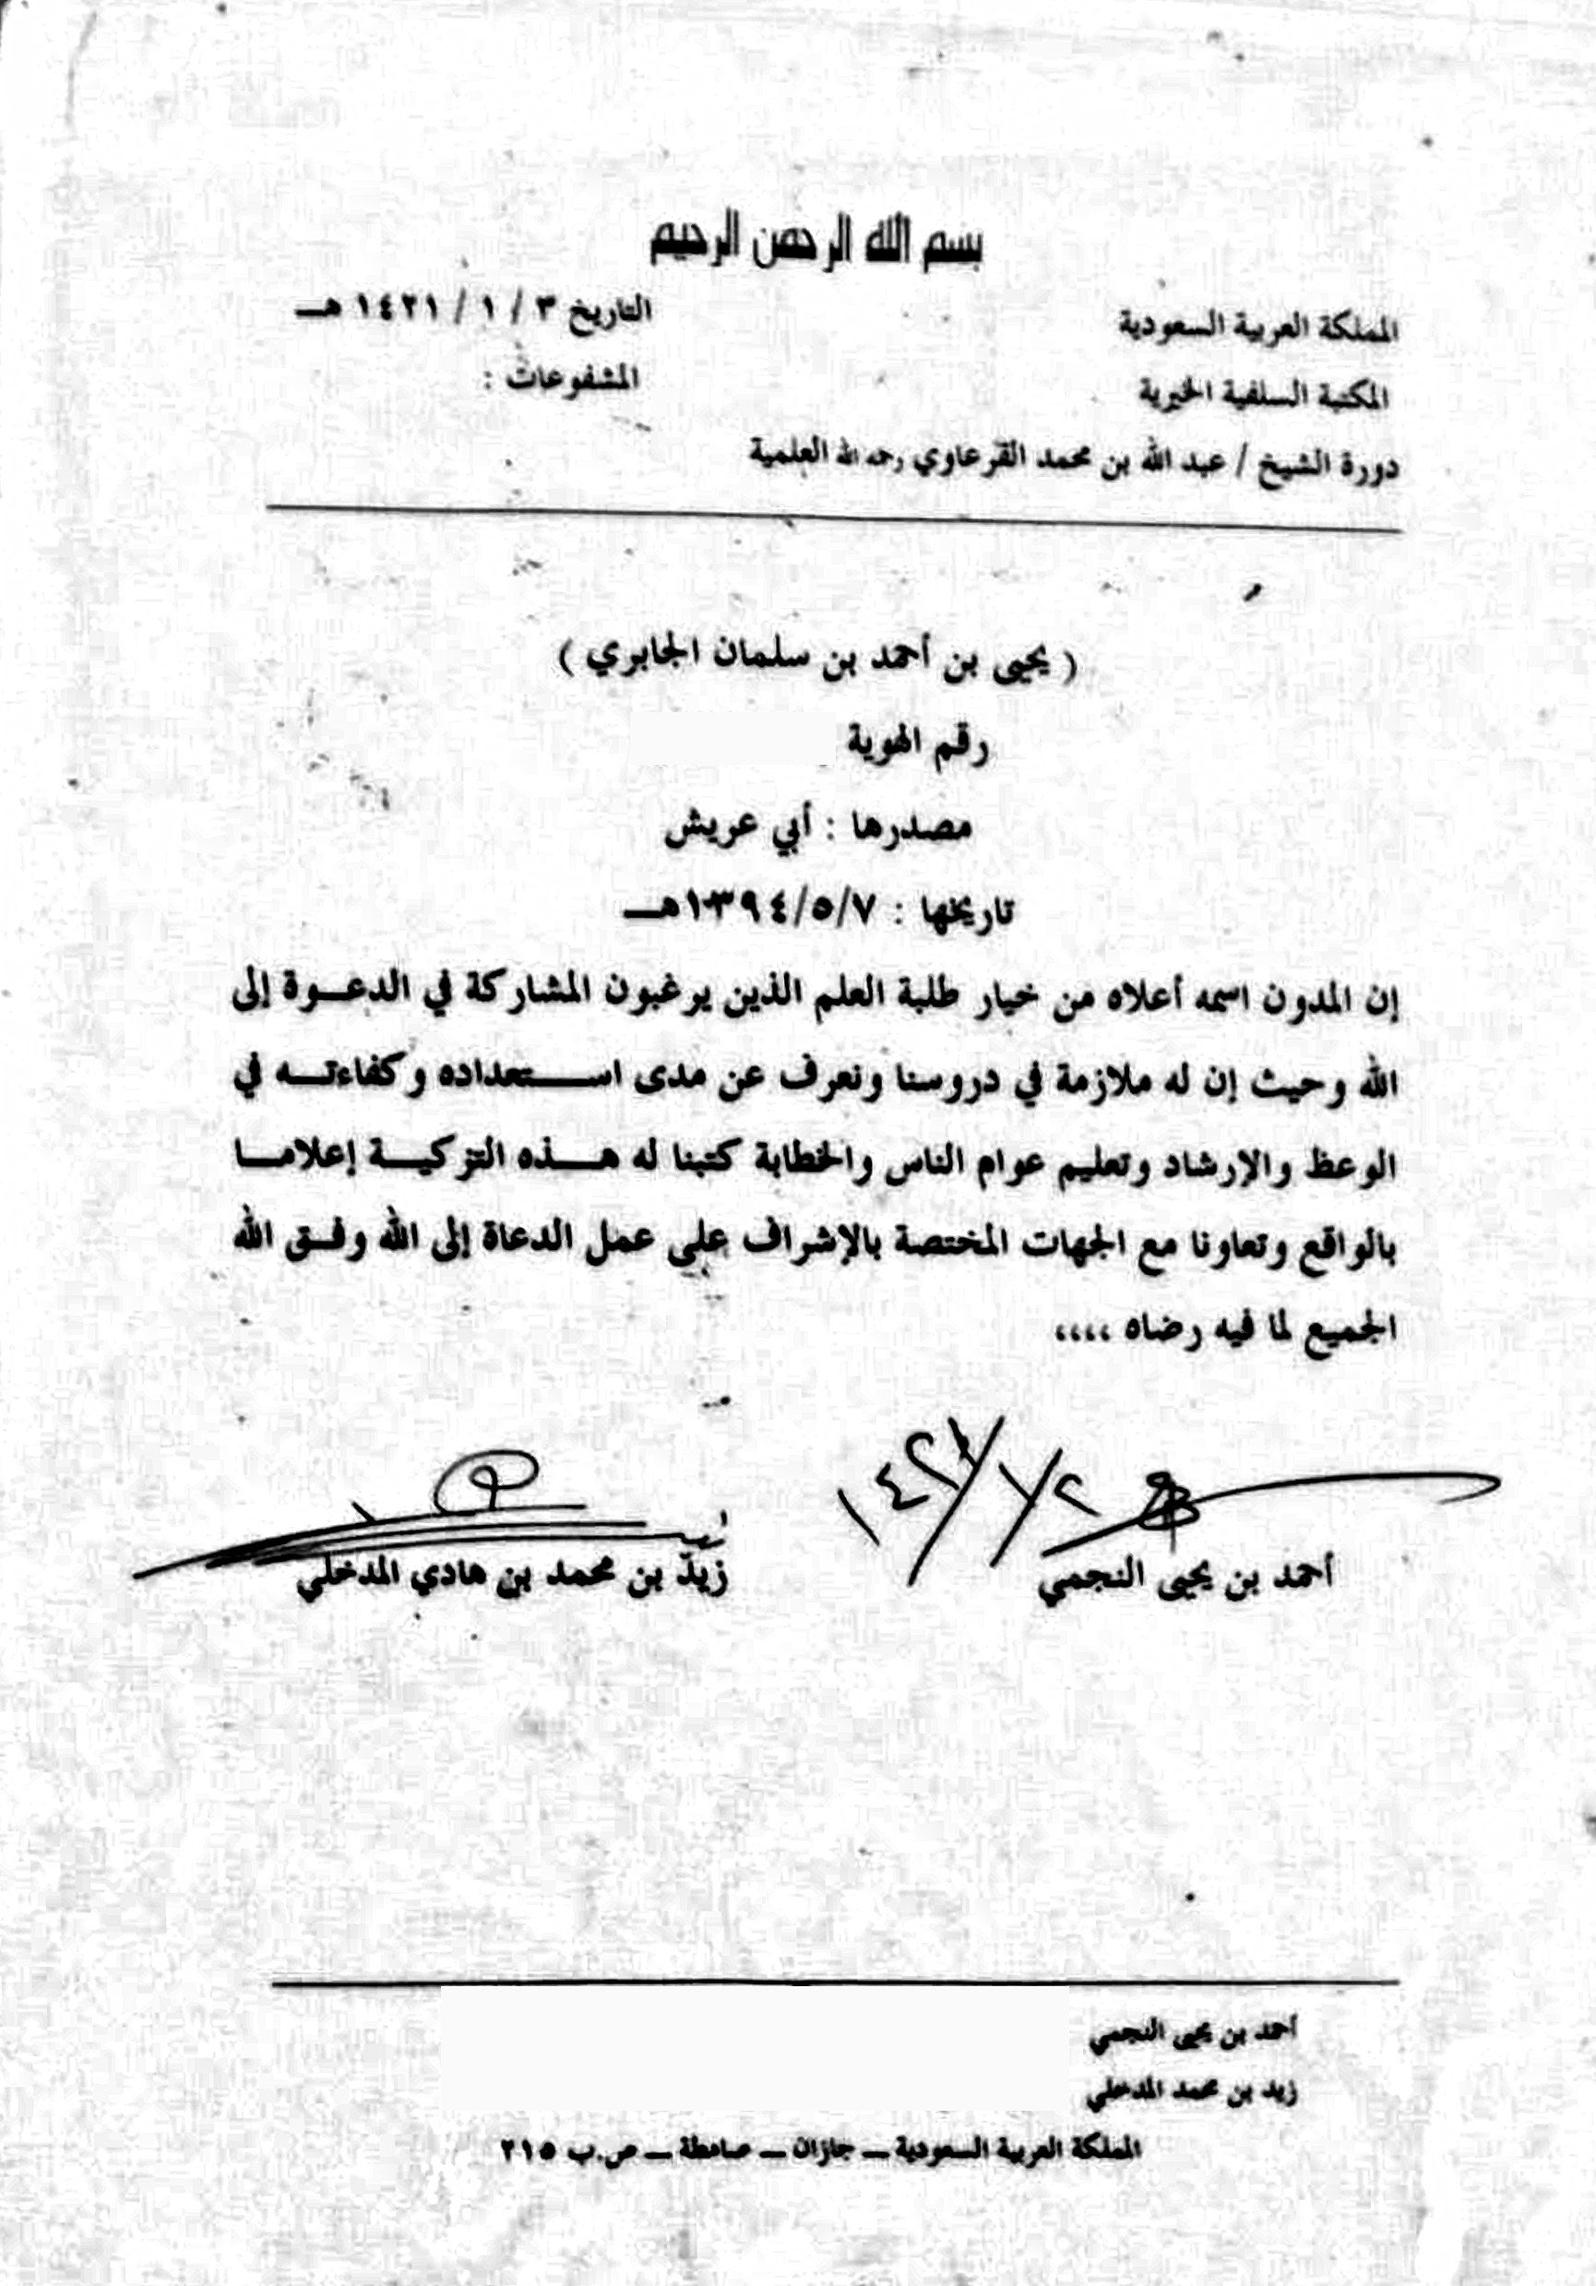
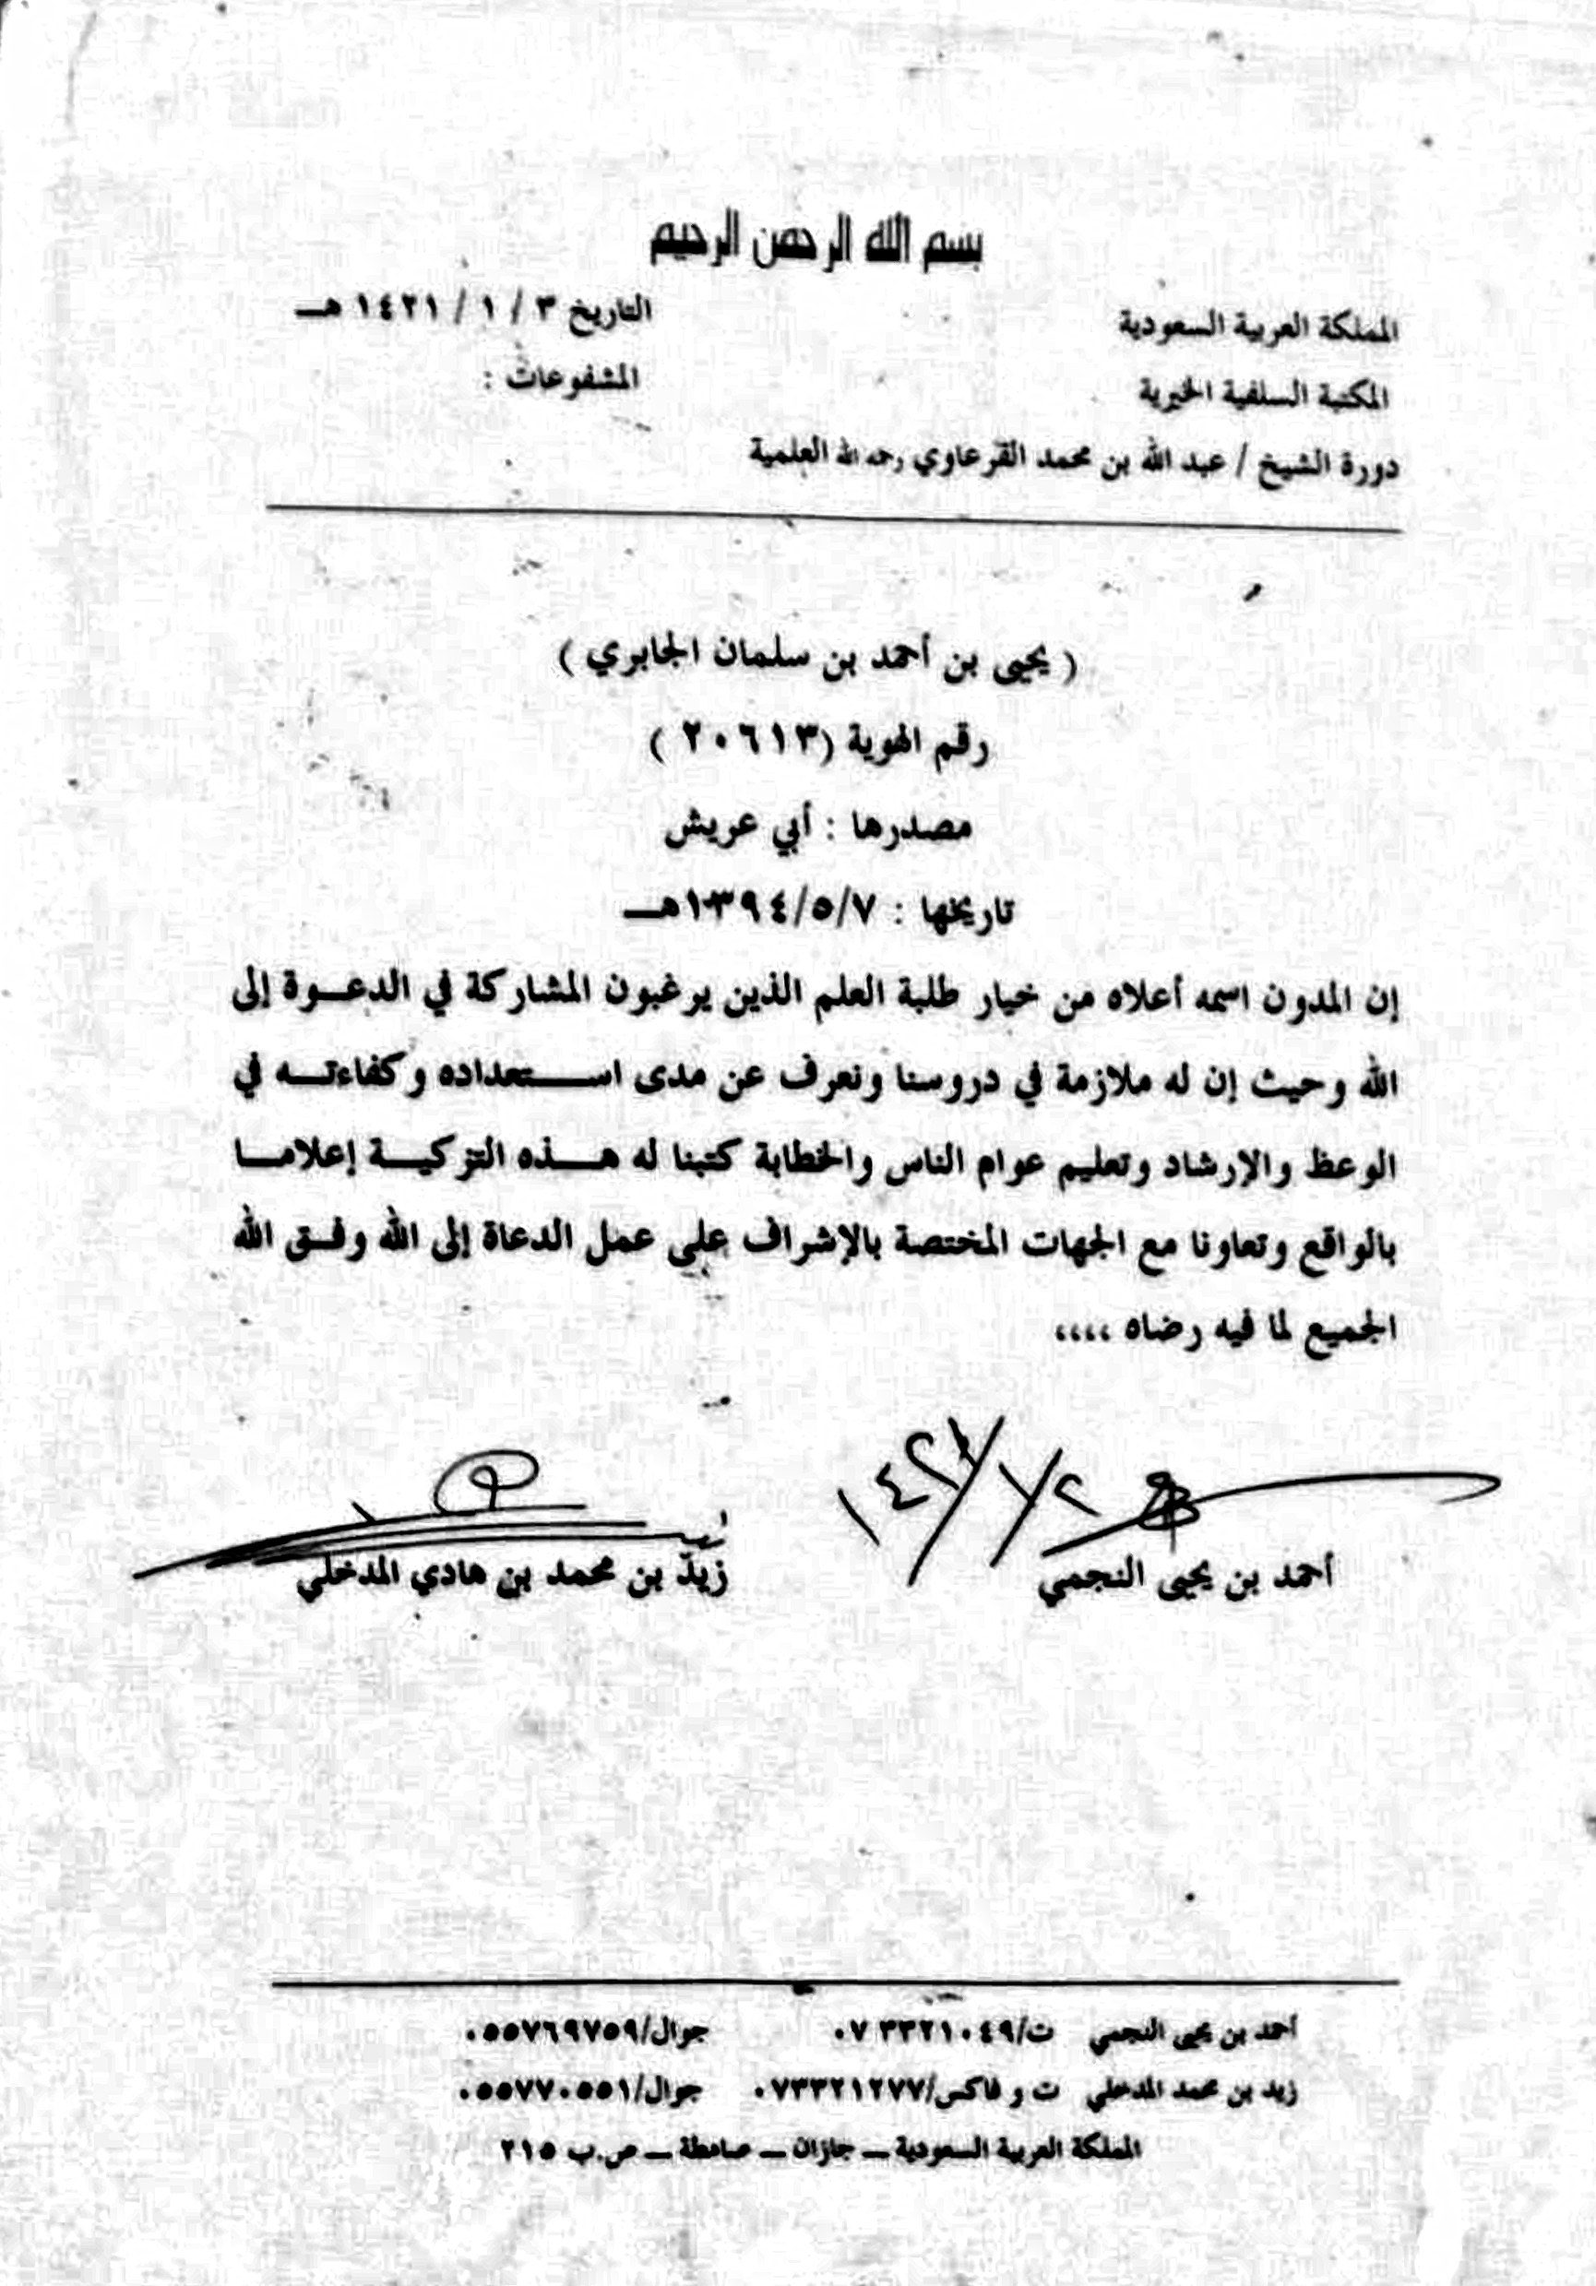
Tazkiya 1421: show the ID and the scholars' numbers (owner's wish)
Claude-Session: https://claude.ai/code/session_0169m4AumxPc9pXCD85e1PfU

Changed region(s): [[0.4682, 0.8701, 0.6555, 0.9322], [0.2809, 0.8701, 0.4682, 0.9322], [0.4058, 0.3107, 0.5306, 0.3418]]

diff --git a/site/js/core.js b/site/js/core.js
@@ -157,19 +157,19 @@ export const href = {
 export { seriesIn };
 
 /* ───────── Scholars' recommendations (tazkiyat) and written advice ─────────  Files in site/docs/ (from the owner, 2026-10-05).
-   Letters: photos straightened and cleaned; the ID number and the phone numbers are blanked on the 1421 letter and left out of its text.
+   Letters: photos straightened and cleaned; shown in full (the owner wants the ID and the scholars' numbers kept, 2026-10-05).
    Text = transcription of the letter as written (keep its spelling). Advice PDFs are published unchanged, as their writer sent them. */
 export const DOCS = {
   tazkiyat: [
     { id: "tazkiya-1421", title: "تزكية الشيخين أحمد بن يحيى النجمي وزيد بن محمد المدخلي رحمهما الله", by: "الشيخ أحمد بن يحيى النجمي والشيخ زيد بن محمد بن هادي المدخلي", date: "٣ / ١ / ١٤٢١هـ",
       image: "/docs/tazkiya-1421.jpg", thumb: "/docs/thumb/tazkiya-1421.jpg", w: 1730, h: 2478,
-      note: "حُجب رقم الهوية وأرقام الهواتف.",
       text: [
         "بسم الله الرحمن الرحيم",
         "المملكة العربية السعودية، المكتبة السلفية الخيرية، دورة الشيخ / عبد الله بن محمد القرعاوي رحمه الله العلمية. التاريخ ٣ / ١ / ١٤٢١هـ",
-        "( يحيى بن أحمد بن سلمان الجابري )",
+        "( يحيى بن أحمد بن سلمان الجابري ) رقم الهوية (٢٠٦١٣)، مصدرها: أبي عريش، تاريخها: ١٣٩٤/٥/٧هـ",
         "إن المدون اسمه أعلاه من خيار طلبة العلم الذين يرغبون المشاركة في الدعوة إلى الله وحيث إن له ملازمة في دروسنا ونعرف عن مدى استعداده وكفاءته في الوعظ والإرشاد وتعليم عوام الناس والخطابة كتبنا له هذه التزكية إعلاما بالواقع وتعاونا مع الجهات المختصة بالإشراف على عمل الدعاة إلى الله وفق الله الجميع لما فيه رضاه.",
         "أحمد بن يحيى النجمي — زيد بن محمد بن هادي المدخلي",
+        "أحمد بن يحيى النجمي: ت/٠٧٣٣٢١٠٤٩، جوال/٠٥٥٧٦٩٧٥٩. زيد بن محمد المدخلي: ت و فاكس/٠٧٣٣٢١٢٧٧، جوال/٠٥٥٧٧٠٥٥١. المملكة العربية السعودية — جازان — صامطة — ص.ب ٢١٥",
       ] },
     { id: "tazkiya-1433", title: "تزكية الشيخ زيد بن محمد المدخلي رحمه الله", by: "الشيخ زيد بن محمد بن هادي المدخلي", date: "٢٤ / ٨ / ١٤٣٣هـ",
       image: "/docs/tazkiya-1433.jpg", thumb: "/docs/thumb/tazkiya-1433.jpg", w: 1710, h: 2440,
